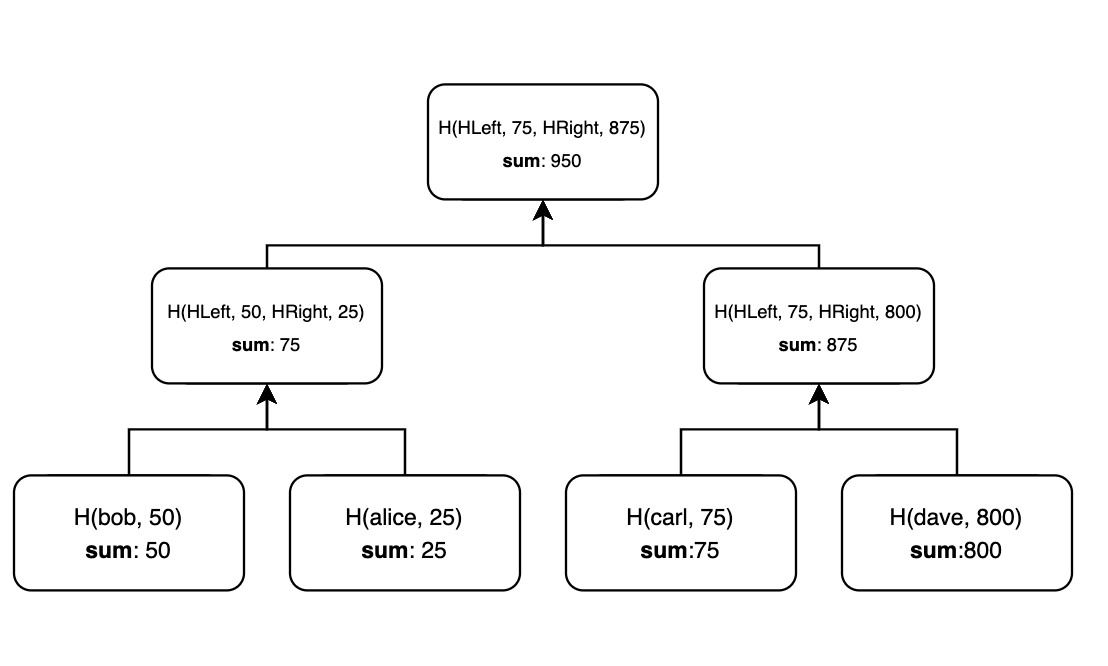
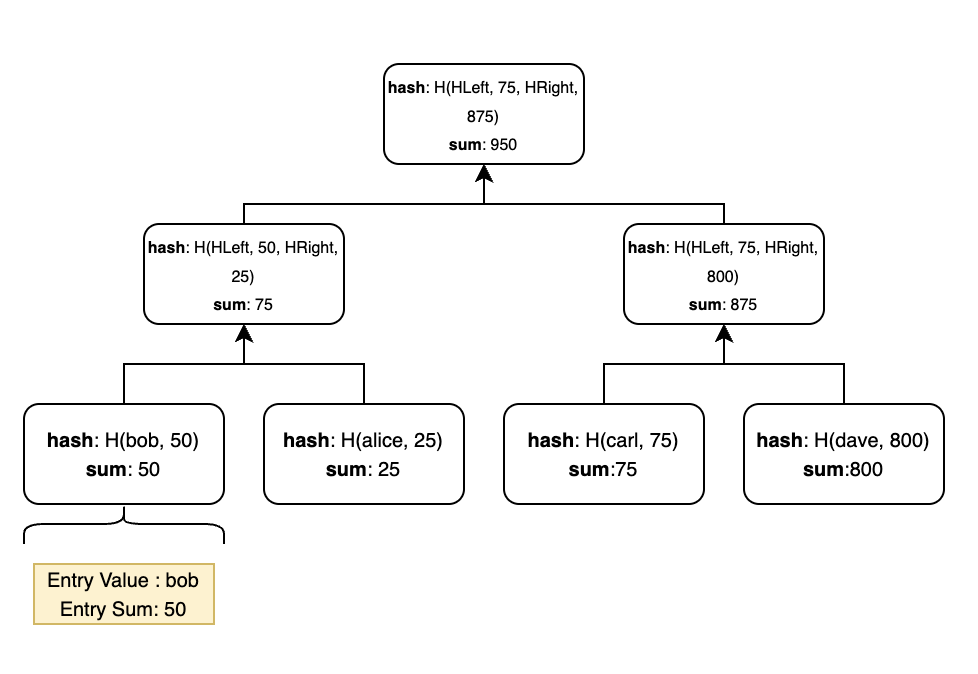
updated API parameters naming

diff --git a/src/incremental-merkle-tree.ts b/src/incremental-merkle-tree.ts
@@ -29,14 +29,16 @@ export default class IncrementalMerkleTree {
    * @param depth Tree depth.
    */
   constructor(hash: HashFunction, depth: number) {
-    // Init zeroNode
-    let zeroNode: Node = { value: BigInt(0), sum: BigInt(0) };
-    const arity = 2;
 
     checkParameter(hash, 'hash', 'function');
     checkParameter(depth, 'depth', 'number');
+
+    // Init zeroNode
+    let zeroNode: Node = { hash: hash([BigInt(0), BigInt(0)]), sum: BigInt(0) };
+    const arity = 2;
+
     checkParameter(zeroNode, 'zeroNode', 'object');
-    checkParameter(zeroNode.value, 'value', 'bigint');
+    checkParameter(zeroNode.hash, 'hash', 'bigint');
     checkParameter(zeroNode.sum, 'sum', 'bigint');
     checkParameter(arity, 'arity', 'number');
 
@@ -56,9 +58,9 @@ export default class IncrementalMerkleTree {
       this._nodes[i] = [];
       // There must be a zero value for each tree level (except the root).
       // Create next zeroValue by following the hashing rule of the merkle sum tree
-      let hashPreImage = [zeroNode.value, BigInt(0), zeroNode.value, BigInt(0)];
+      let hashPreImage = [zeroNode.hash, BigInt(0), zeroNode.hash, BigInt(0)];
 
-      zeroNode = { value: hash(hashPreImage), sum: BigInt(0) };
+      zeroNode = { hash: hash(hashPreImage), sum: BigInt(0) };
     }
 
 
@@ -122,12 +124,14 @@ export default class IncrementalMerkleTree {
 
   /**
    * Inserts a new leaf in the tree.
-   * @param value Value of the leaf to be added to the tree.
-   * @param sum sum of the leaf to be added to the tree.
+   * @param entryValue value of the entry to be added to the tree.
+   * @param entrySum sum of the entry to be added to the tree.
    */
- // => Modify it : create a new Entry Type which is the value to be added in the tree before hashing.
-  public insert(value: bigint, sum: bigint) {
-    const leaf : Node = {value: value, sum: sum };
+  public insert(entryValue: bigint, entrySum: bigint) {
+
+    const hashPreImage = [entryValue, entrySum];
+
+    const leaf : Node = {hash: this._hash(hashPreImage), sum: entrySum};
     this._root = _insert(leaf, this.depth, this.arity, this._nodes, this.zeroes, this._hash);
   }
 

diff --git a/src/insert.ts b/src/insert.ts
@@ -12,7 +12,7 @@ export default function insert(
 ): Node {
 
   checkParameter(leaf, 'leaf', 'object');
-  checkParameter(leaf.value, 'value', 'bigint');
+  checkParameter(leaf.hash, 'hash', 'bigint');
   checkParameter(leaf.sum, 'sum', 'bigint');
 
   if (nodes[0].length >= arity ** depth) {
@@ -33,18 +33,18 @@ export default function insert(
 
     for (let i = levelStartIndex; i < levelEndIndex; i += 1) {
       if (i < nodes[level].length) {
-        children.push(nodes[level][i].value);
+        children.push(nodes[level][i].hash);
         children.push(nodes[level][i].sum);
         sum += nodes[level][i].sum;
       } else {
         // Case where the level is not full and we need to use empty Nodes
-        children.push(zeroes[level].value);
+        children.push(zeroes[level].hash);
         children.push(zeroes[level].sum);
         // sum += zeroes[level].sum which is always 0
       }
     }
 
-    node = {value: hash(children), sum: sum };
+    node = {hash: hash(children), sum: sum };
     index = Math.floor(index / arity);
   }
 

diff --git a/test/single.test.ts b/test/single.test.ts
@@ -67,7 +67,7 @@ describe("Incremental Merkle Tree", () => {
                     tree.insert(BigInt(i), BigInt(i + 1))
                     expect(tree.leaves).toHaveLength(i + 1)
                     // The leaves should be initiated with the correct value and the correct sum
-                    expect(tree.leaves[i].value).toEqual(BigInt(i))
+                    expect(tree.leaves[i].hash).toEqual(poseidon([BigInt(i), BigInt(i + 1)]))
                     expect(tree.leaves[i].sum).toEqual(BigInt(i + 1))
                     sum += BigInt(i + 1)
                     // The root should store the correct sum

diff --git a/src/types/index.ts b/src/types/index.ts
@@ -1,5 +1,5 @@
 export type Node = {
-  value: bigint;
+  hash: bigint;
   sum: bigint;
 };
 

diff --git a/README.md b/README.md
@@ -4,9 +4,12 @@
 
 ## What is a Merkle Sum Tree?
 
-A Merkle Sum Tree is a binary Merkle Tree where each **Leaf Node** contains a hash and a numeric value. Each **Middle Node** contains a hash which is the hash of the concatenation of the hashes of its children and the numeric values of its children and a numeric value which is the sum of the numeric values of its children. 
+A Merkle Sum Tree is a binary Merkle Tree with the following properties:
 
-The **Root Node** represents the committed state of the Tree and contains the sum of all the entries' values.
+- Each entry of a Merkle Sum Tree is a pair of a value and a sum. 
+- Each Leaf Node contains a hash and a sum. The hash is equal to H(value, sum). The sum is equal to the sum itself.
+- Each Middle Node contains a hash and a sum. The hash is equal to H(LeftChild.hash, LeftChild.sum, RightChild.hash, RightChild.sum). The sum is equal to the sum of the sums of its children.
+- The Root Node represents the committed state of the Tree and contains the sum of all the entries' sums.
 
 <div align="center">
 <img src="./imgs/mst.png" width="600" align="center" />
@@ -30,7 +33,7 @@ import { poseidon } from "circomlibjs" // v0.0.8
 const tree = new IncrementalMerkleTree(poseidon, 16) // Binary tree with 16 levels and poseidon hash function
 ```
 
-\# **insert**(value: _number_, sum: _number_)
+\# **insert**(entryValue: _number_, entrySum: _number_)
 
 ```typescript
 tree.insert(BigInt(1), BigInt(25))
